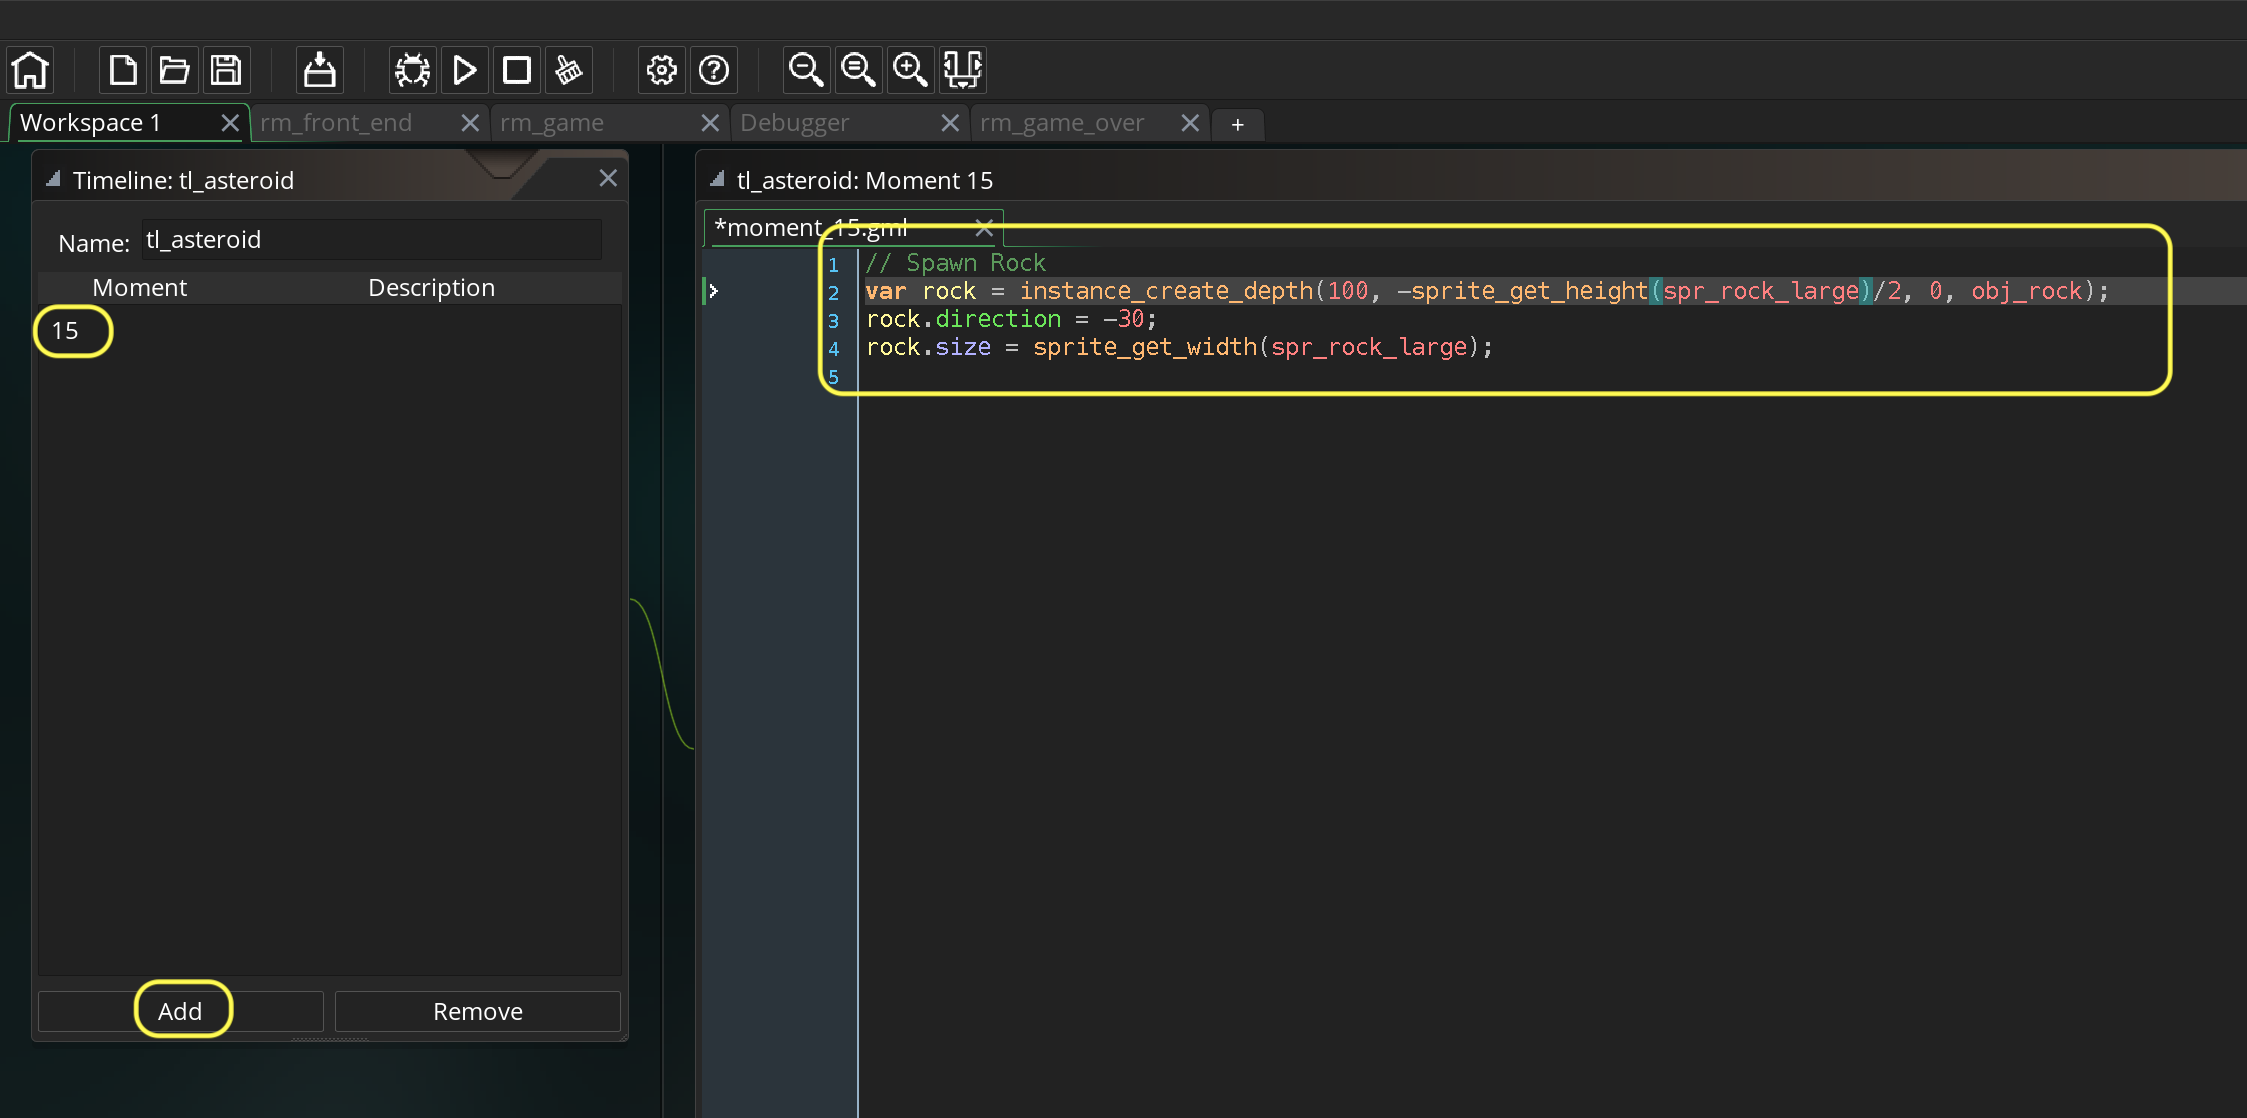
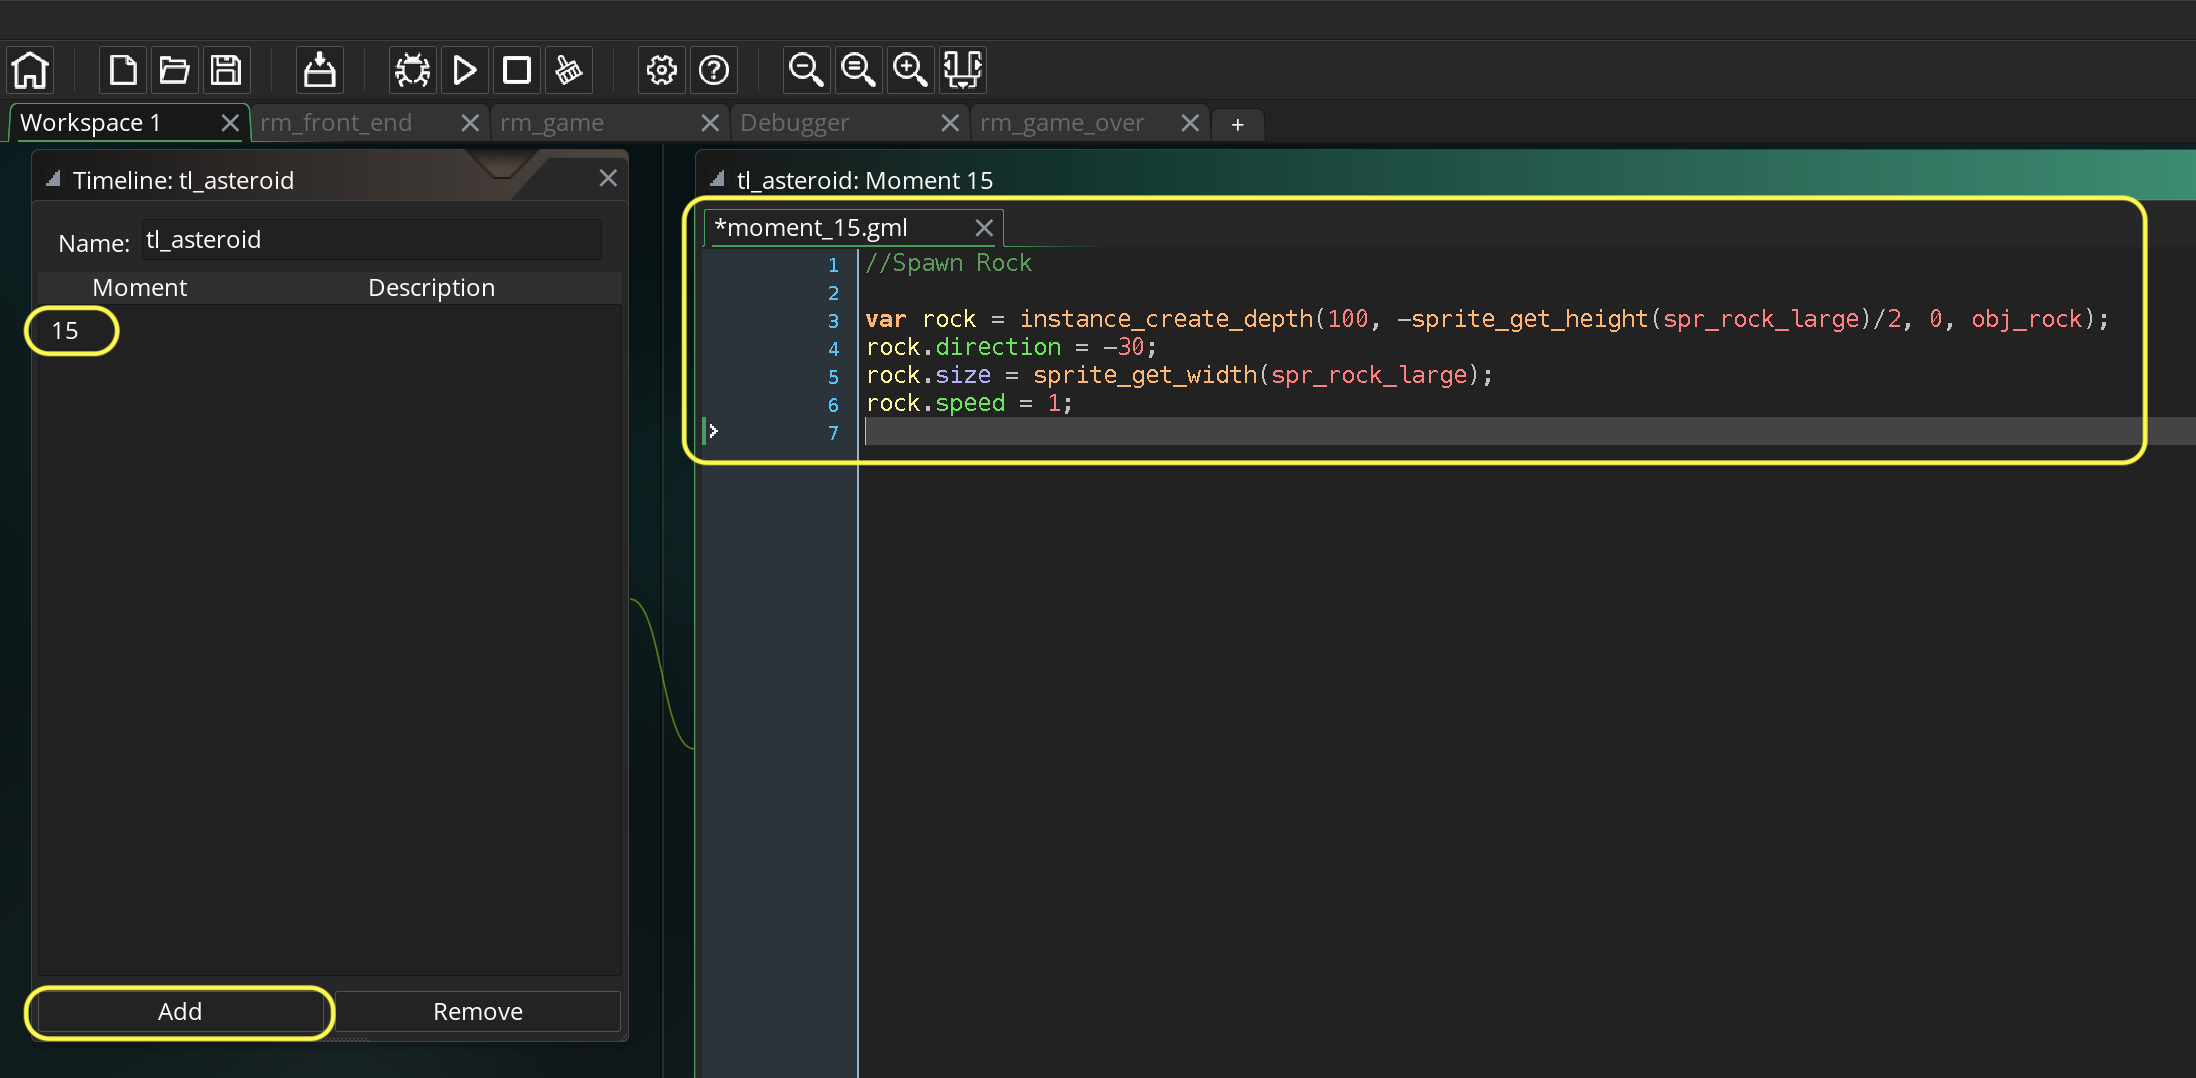
Update space rocks

diff --git a/waves/README.md b/waves/README.md
@@ -80,6 +80,8 @@ We will launch the rocks from negative half a sprite height from the top for lau
 
 Now even though we are off to the left and the top if we go in the opposite direction the rock will trigger `move_wrap()` and go in the other side.  So we can point the rock to inside the room and come from the top or left.  We can also point it away from the room and come from the bottom or right hand side. Please try and avoid using orthoganal angles such as 0°, 90°, 180° or 270° or any an7 angle within a few degrees of these.  This will make the rocks move in the same position every time and will not look realistic or correct.
 
+I find for going the opposite direction that the sprite is not half a height or width away but a full height or width, as some of the sprite may show on the other side first.  This will take some experimentation.
+
 ![angle diagram for launching rocks](images/launchAngle.png)
 
 <img src="https://via.placeholder.com/500x2/45D7CA/45D7CA" alt="drawing" height="2px" alt = ""/>
@@ -88,15 +90,17 @@ Now even though we are off to the left and the top if we go in the opposite dire
 
 I want to launch two large rocks at the player offset by a short amount of time.  I want to give them time to get used to the controls and playing the game.  I am assuming they have never played a game like this before.  So I will not hit them on the first two waves.  I can only make this assumption at this first ave as the player starts in the middle.  In any future waves I will not know where the player is located when launching.
 
-The first is in the top left corner of the screen which makes it an x_pos of 0 and y_pos of 0.  An angle of -45 woudl hit the player and we want to miss them so we launch it as -30 degrees at its default speed so we multiply it by 1.
+Open up **tl_asteroid** and press the <kbd>Add</kbd> button.  Set the moment at `15` (in frames, so half a second).  
 
-![alt_text](images/spawnFirstRock.png)
+![spawn firts rock at timeline moment 15](images/spawnFirstRock.png)
 
 <img src="https://via.placeholder.com/500x2/45D7CA/45D7CA" alt="drawing" height="2px" alt = ""/>
 
 ##### `Step 9.`\|`SPCRK`| :small_orange_diamond: :small_blue_diamond: :small_blue_diamond: :small_blue_diamond: :small_blue_diamond:
 
-![alt_text](images/.png)
+Now *press* the <kbd>Play</kbd> button in the top menu bar to launch the game. Now when you get to the game you should see the rock spawn!
+
+![alt_text](images/FirstTimelineSpawn.gif)
 
 <img src="https://via.placeholder.com/500x2/45D7CA/45D7CA" alt="drawing" height="2px" alt = ""/>
 
